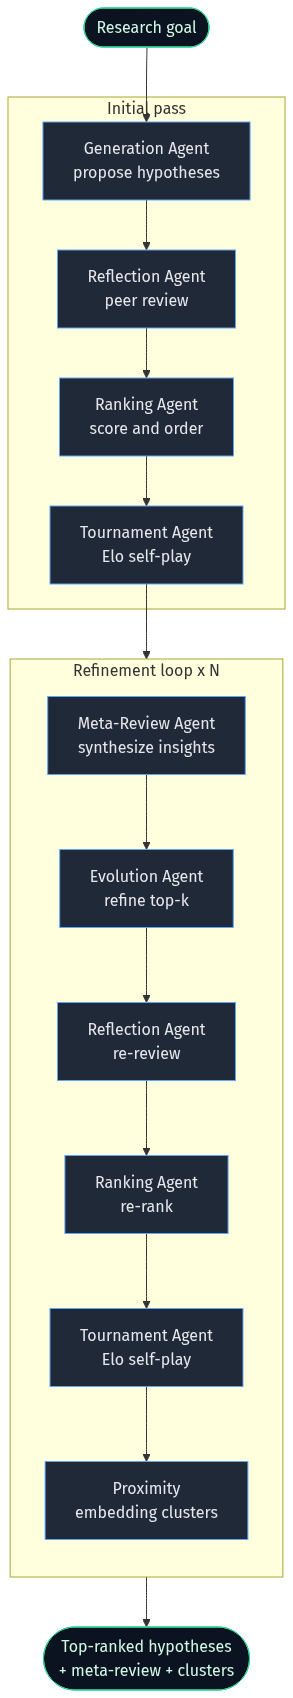
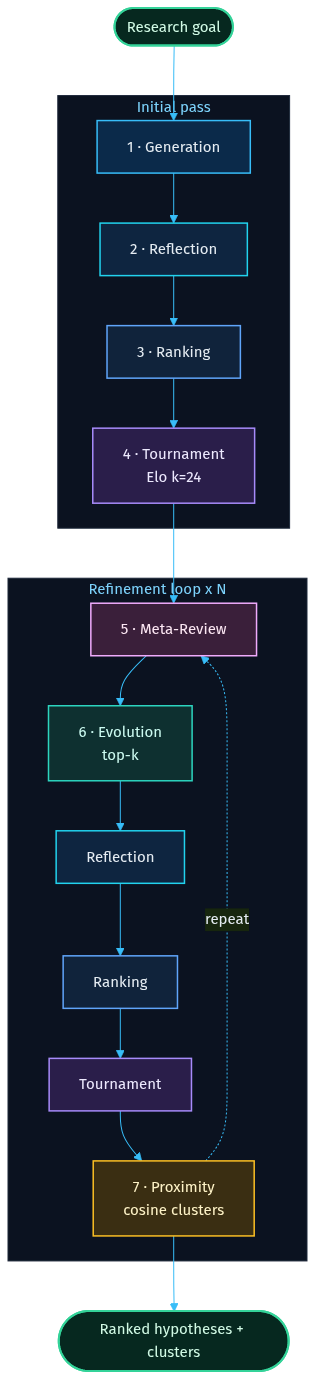
docs: restyle + expand diagrams (pipeline, architecture, decode)
Replace the flat pipeline diagram with a themed dark vector set matching
the hero, and add two companion diagrams:
- pipeline: color-coded phases, numbered agents, Elo k=24 + cosine-cluster
  annotations, the repeat loop.
- architecture: DIP layering — CLI → Kit protocols ← MLX / Remote adapters.
- decode: schema-constrained decode + repair-retry ladder → AgentError.

Wired into the README (styled PNGs replace the inline Mermaid block, new
Architecture section) and the DocC Architecture article; .mmd sources kept
for editability. (gpt-image-2 polish garbled technical labels, so the
on-theme kroki-rendered vector diagrams are used.)

diff --git a/README.md b/README.md
@@ -55,26 +55,9 @@ swift run aicoscientist "Improve lithium-ion energy density" --run --remote-judg
 Seven single-responsibility agents run in a *generate → debate → evolve* loop, with an
 Elo tournament for self-play ranking and embedding-based clustering for diversity:
 
-```mermaid
-flowchart TD
-    goal([Research goal]) --> gen
-    subgraph seed[Initial pass]
-        direction TB
-        gen[Generation<br/>propose hypotheses] --> ref1[Reflection<br/>peer review]
-        ref1 --> rank1[Ranking<br/>score and order]
-        rank1 --> tour1[Tournament<br/>Elo self-play]
-    end
-    tour1 --> loop
-    subgraph loop[Refinement loop x N]
-        direction TB
-        meta[Meta-Review<br/>synthesize insights] --> evo[Evolution<br/>refine top-k]
-        evo --> ref2[Reflection<br/>re-review]
-        ref2 --> rank2[Ranking<br/>re-rank]
-        rank2 --> tour2[Tournament<br/>Elo self-play]
-        tour2 --> prox[Proximity<br/>embedding clusters]
-    end
-    loop --> result([Top-ranked hypotheses<br/>+ meta-review + clusters])
-```
+<p align="center">
+  <img src="docs/assets/pipeline.png" alt="The seven-agent pipeline: an initial generation → reflection → ranking → tournament pass, then an N-times refinement loop of meta-review → evolution → reflection → ranking → tournament → proximity clustering." width="420" />
+</p>
 
 Each agent's role is documented in the
 [DocC site](https://iksnae.github.io/coscientist-mlx/documentation/aicoscientistkit/thesevenagents)
@@ -88,6 +71,23 @@ The Python original calls hosted LLM APIs and assumes the model returns valid JS
 port targets Apple Silicon with [MLX](https://github.com/ml-explore/mlx-swift): local,
 private, zero marginal cost — and aims to be *superior* via embedding-based proximity
 clustering, schema-constrained decoding, and batched inference. See the architecture doc.
+
+## Architecture
+
+The domain layer (`AICoScientistKit`) depends only on protocols, so the engine is MLX-free
+and unit-testable; the on-device (`AICoScientistMLX`) and hosted (`AICoScientistRemote`)
+adapters implement those seams and are routed per stage (Dependency Inversion):
+
+![Layering: the aicoscientist CLI drives the CoScientist Engine and seven agents inside AICoScientistKit, which depends only on the LanguageModel and EmbeddingModel protocols; AICoScientistMLX and AICoScientistRemote implement those protocols.](docs/assets/architecture.png)
+
+Local models can break JSON, so every agent output is schema-constrained and validated,
+with bounded repair-retry — failures are recorded, never crash the run:
+
+<p align="center">
+  <img src="docs/assets/decode.png" alt="Schema-constrained decode: inject schema into the prompt, generate, extract JSON, validate against the schema; on success decode the value, on failure repair-retry by feeding the error back, and if retries are exhausted record an AgentError in metrics." width="360" />
+</p>
+
+See [`docs/ARCHITECTURE.md`](docs/ARCHITECTURE.md) for the full design.
 
 ## Requirements
 

diff --git a/Sources/AICoScientistKit/Documentation.docc/Architecture.md b/Sources/AICoScientistKit/Documentation.docc/Architecture.md
@@ -11,13 +11,16 @@ the MLX runtime:
 | Target | Role | MLX? |
 |---|---|---|
 | `AICoScientistKit` | Pure domain, agents, engine, protocol boundaries | **No** |
-| `AICoScientistMLX` | The MLX adapter — the only place `import MLX*` appears | Yes |
-| `AICoScientistCLI` | The `aicoscientist` command-line driver | via MLX |
+| `AICoScientistMLX` | On-device adapter — the only place `import MLX*` appears | Yes |
+| `AICoScientistRemote` | Hosted OpenAI-compatible adapter | No |
+| `AICoScientistCLI` | The `aicoscientist` driver; routes per stage | via MLX |
 
 This is the Dependency Inversion Principle in practice: the engine and the seven agents
 are written against ``LanguageModel``, ``EmbeddingModel``, and ``SchemaConstrainedDecoding``,
 so unit tests run on a deterministic ``MockLanguageModel`` with no GPU and no downloads,
-while production wires in the MLX-backed implementations.
+while production wires in the MLX-backed (or remote) implementations.
+
+![Layering: the aicoscientist CLI drives the CoScientist Engine and seven agents inside AICoScientistKit, which depends only on the LanguageModel and EmbeddingModel protocols; AICoScientistMLX and AICoScientistRemote implement those protocols.](architecture)
 
 ## The decoding pipeline
 
@@ -33,6 +36,8 @@ post-generation validation.
    **repair-retry**.
 3. Hard failure surfaces as a typed ``AgentError``, recorded in ``ExecutionMetrics`` —
    the engine continues.
+
+![Schema-constrained decode: inject the schema into the prompt, generate, extract JSON and strip reasoning, then validate against the schema; on success decode the value, on failure repair-retry by feeding the error back, and when retries are exhausted record an AgentError in metrics.](decode)
 
 A heavier GPU logit-masking form (making invalid tokens impossible) sits behind the same
 ``SchemaConstrainedDecoding`` protocol and is gated to the integration target, since it

diff --git a/docs/ARCHITECTURE.md b/docs/ARCHITECTURE.md
@@ -14,6 +14,8 @@ reference, then superior where the local + native stack allows.
 > ([arXiv:2408.06292](https://arxiv.org/abs/2408.06292)), a separate system. Full
 > references and citation live in the [README](../README.md#references).
 
+![Layering: the aicoscientist CLI drives the CoScientist Engine and seven agents inside AICoScientistKit, which depends only on the LanguageModel and EmbeddingModel protocols; AICoScientistMLX (on-device) and AICoScientistRemote (hosted) implement those protocols.](assets/architecture.png)
+
 Decisions locked in:
 - **Form factor:** SPM library (`AICoScientistKit`) + CLI (`aicoscientist`). App can sit on top later.
 - **Inference:** MLX-Swift + **schema-constrained decoding**, Codable-first (see §3).